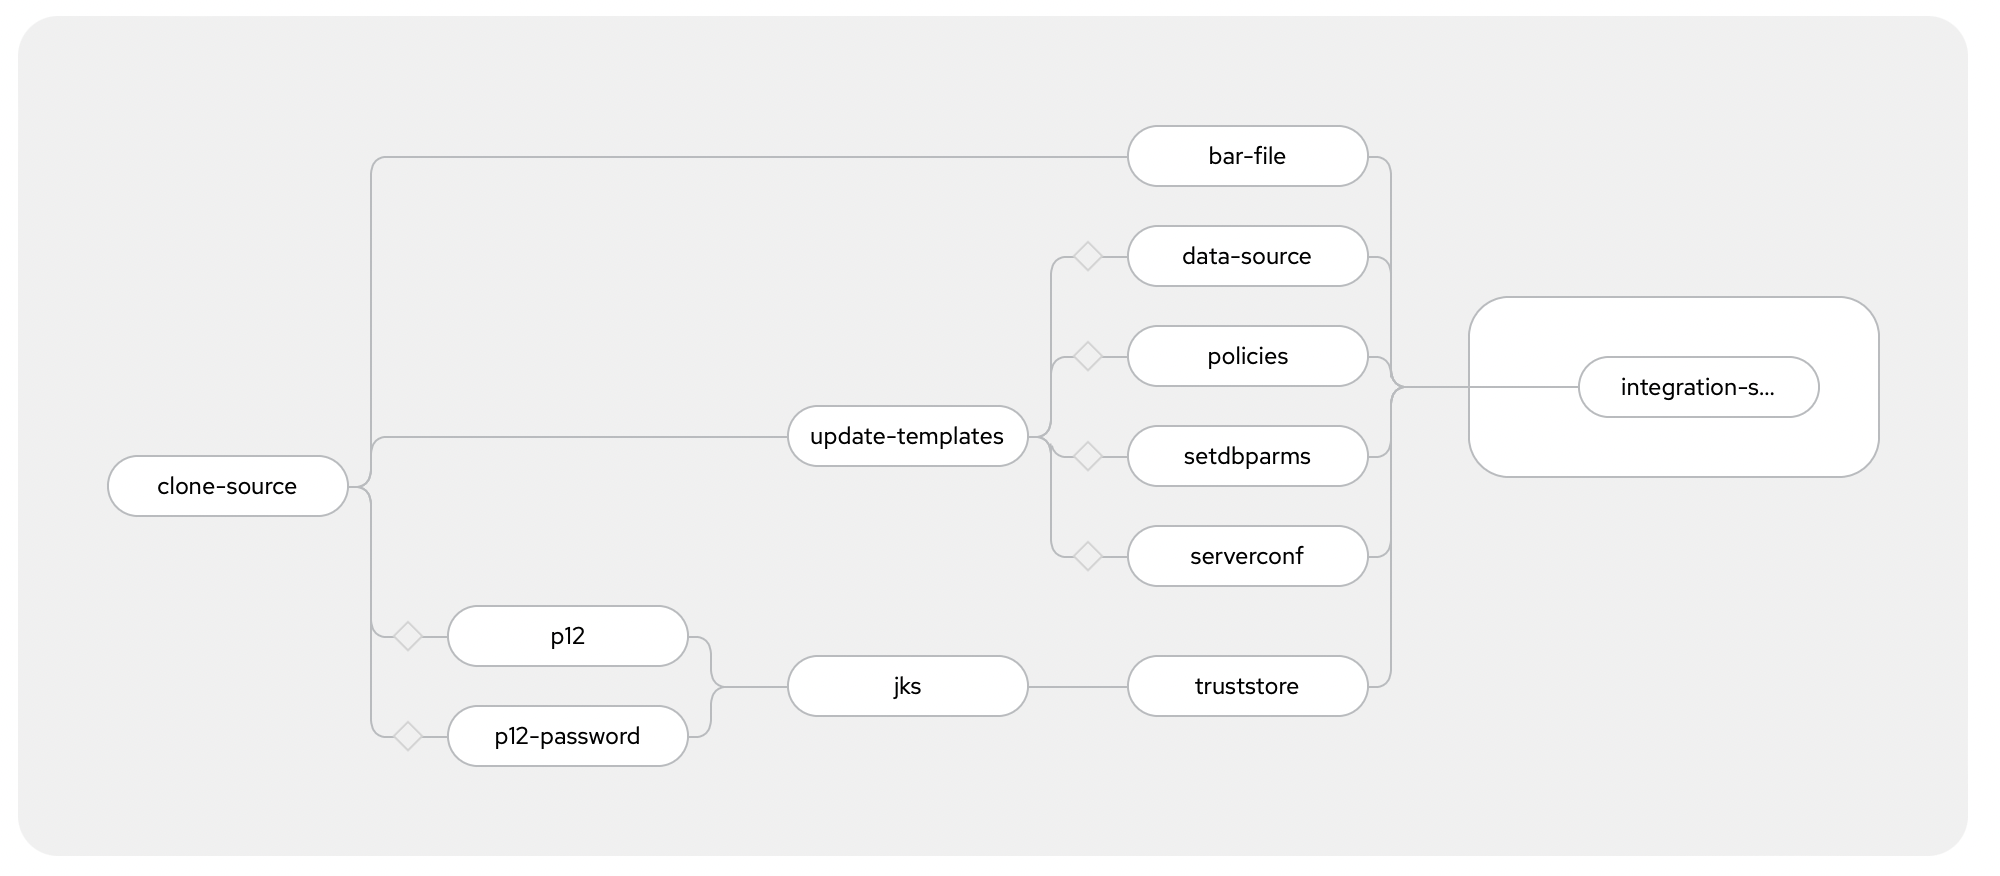
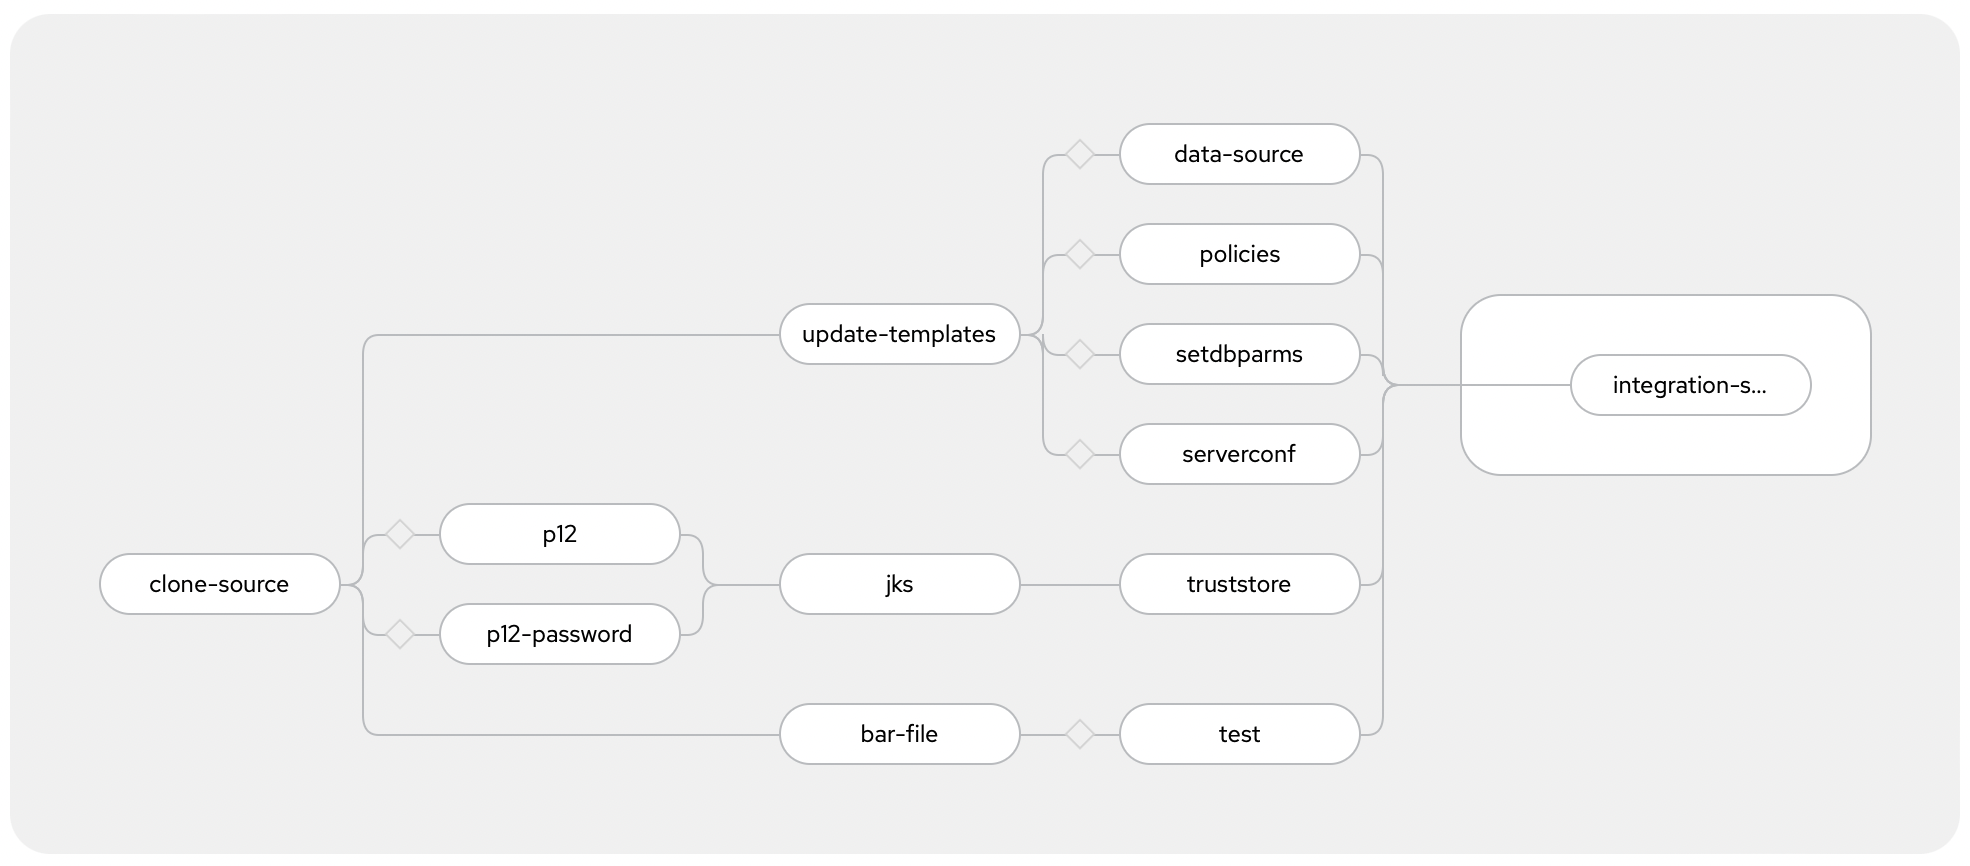
feat: automating running the new tests
- updated the tekton pipeline to include running the tests
- added eclipse launch configs for running the tests in toolkit

diff --git a/README.md b/README.md
@@ -4,6 +4,7 @@
 
 - [Overview](#overview)
 - [Pipeline](#pipeline)
+- [Tests](#tests)
 - [Sample ACE apps](#sample-apps)
 - [Building your own app](#configuring-the-pipeline-for-your-app-connect-enterprise-application)
 - [Supported versions](#supported-versions)
@@ -124,6 +125,12 @@ Watching the pipeline run (also sped up!) it looks like this.
 
 To avoid needing to store credentials in git with your application code, the pipeline retrieves credentials from Kubernetes secrets. When [configuring the pipeline for your application](#configuring-the-pipeline-for-your-app-connect-enterprise-application) you need to specify the secrets it should use to do this.
 
+## Tests
+
+If you have a [test project](https://www.ibm.com/docs/en/app-connect/12.0?topic=tests-running-integration) for your App Connect application, the pipeline can run this test as well.
+
+Provide the name of your test project in the pipeline config, and your tests will be run after the BAR file is built.
+
 ## Sample apps
 
 I've put notes on how I set up the sample apps to demonstrate the pipeline in [demo-pre-reqs/README.md](./demo-pre-reqs/README.md) however neither of the sample apps are particularly useful and were purely used to test and demo the pipeline.
@@ -151,6 +158,14 @@ returns this:
 ```json
 {"hello":"world"}
 ```
+
+#### Test
+
+A test for this app is provided in [simple-demo_Test](./ace-projects/simple-demo_Test/).
+
+To run it:
+1. Create a local integration server called `TEST_SERVER` (inheriting the configuration in the [TEST_SERVER](./ace-projects/TEST_SERVER/) folder)
+2. Run the test launch configuration [simple-demo_Test.launch](./ace-projects/simple-demo_Test/simple-demo_Test.launch)
 
 ### Complex app
 
@@ -193,11 +208,20 @@ store=# select * from todos;
 (1 row)
 ```
 
+#### Test
+
+A test for this app is provided in [sample-ace-application_Test](./ace-projects/sample-ace-application_Test/).
+
+To run it:
+1. Create a local integration server called `TEST_SERVER` (inheriting the configuration in the [TEST_SERVER](./ace-projects/TEST_SERVER/) folder)
+2. Run the test launch configuration [sample-ace-application_Test.launch](./ace-projects/sample-ace-application_Test/sample-ace-application_Test.launch)
+
+
 ## Configuring the pipeline for your App Connect Enterprise application
 
 To run the pipeline for your own application, you need to first create a `PipelineRun`.
 
-The sample pipeline runs described above provide a good starting point for this, which you can modify to your own needs. You need to specify the location of your App Connect Enterprise application code and configuration resources. All of the available parameters are documented in the [pipeline spec](./tekton/pipeline.yaml#L20-L191) if further guidance is needed.
+The sample pipeline runs described above provide a good starting point for this, which you can modify to your own needs. You need to specify the location of your App Connect Enterprise application code and configuration resources. All of the available parameters are documented in the [pipeline spec](./tekton/pipeline.yaml#L20-L199) if further guidance is needed.
 
 
 ## Supported versions
